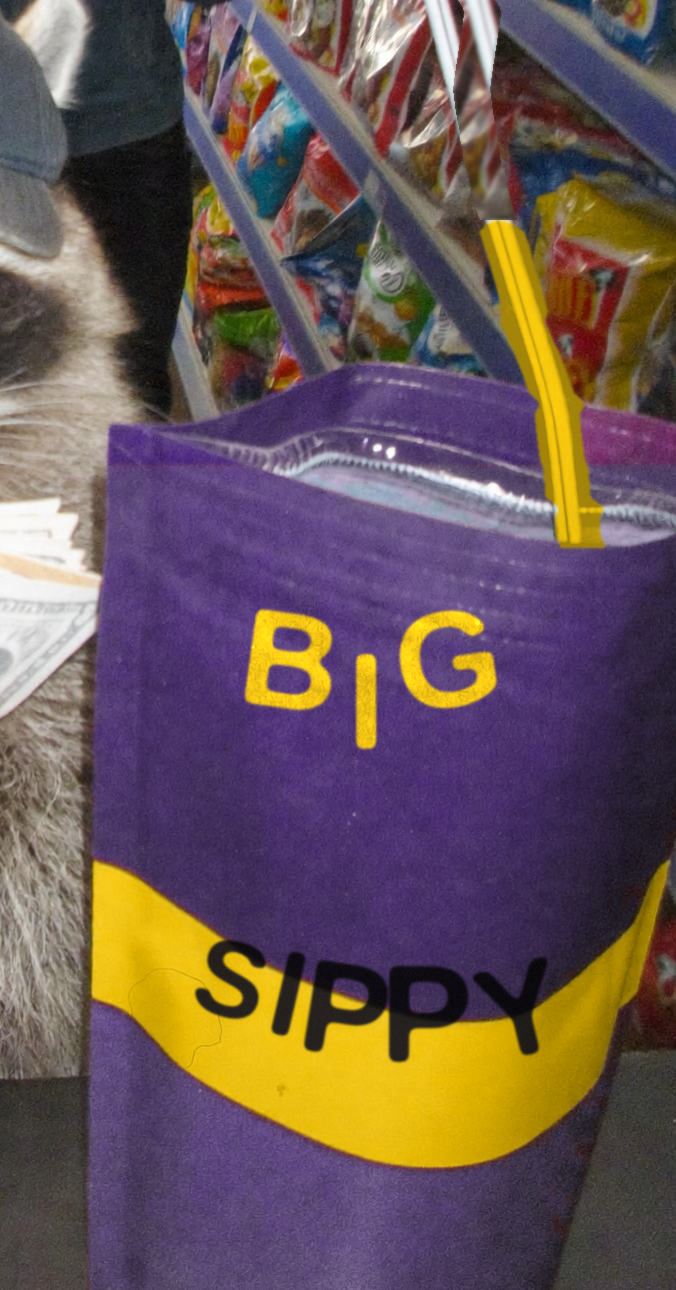
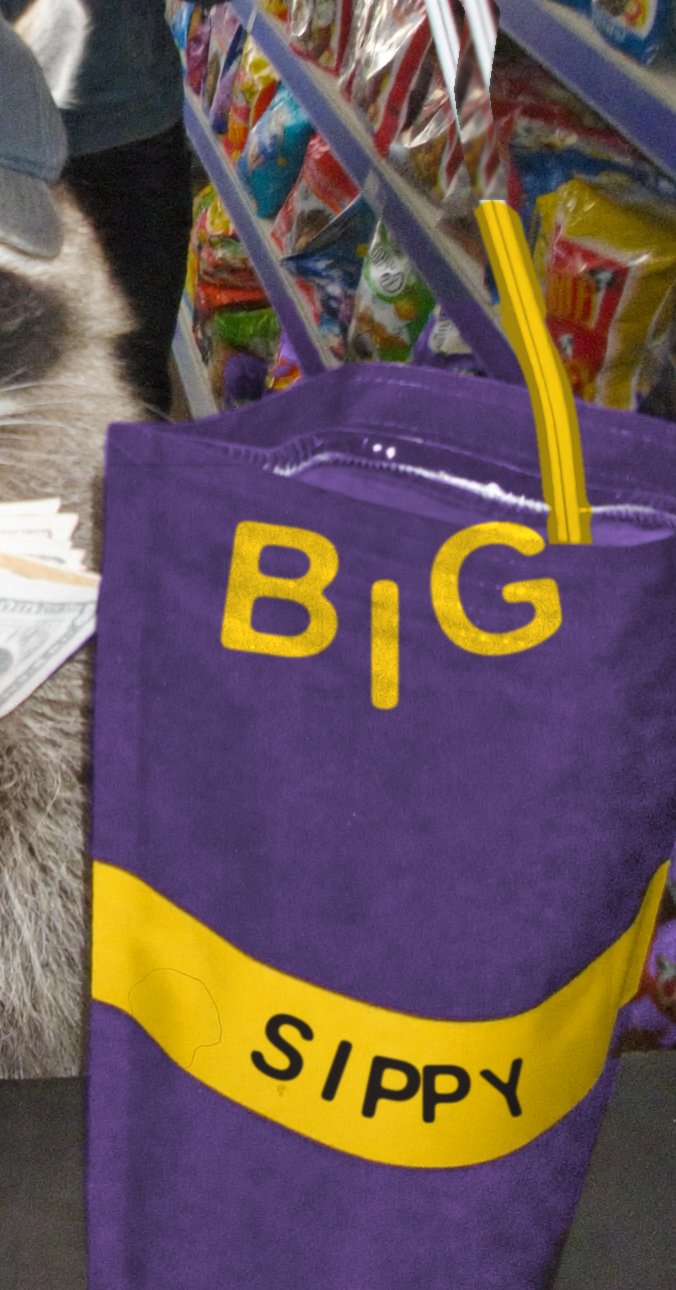
Contain SIPPY fully in the band, and make the purple genuinely one colour
Both fixes came down to replacing detection heuristics with measured geometry.

The purple: per-region value scaling failed twice because the tone varies
WITHIN a region — the fold fades to washed lavender near the straw, sitting
under every saturation floor. unify_body now rebuilds the body colour per
pixel: hue and saturation pinned to canon everywhere, value keeping only its
high-frequency wrinkle detail while the low-frequency illumination field is
divided out. Measured result: hue spread 264.5-266.2 deg, saturation
0.45-0.47 across the whole pouch. The capture mask now reaches the full
purple-through-pink arc down to barely-saturated, filtered by touching the
known pouch, since the box also contains pink shelf packets.

SIPPY: the letters now distribute evenly across the band's FRONT FACE with
equal margins from the pouch edges, each letter sized from local thickness
minus a reserved margin, riding the band's centreline curve. Three bugs stood
in the way. The face cannot be found by thickness — where the band dives
around a seam its per-column footprint gets taller, not thinner — so the face
is found by centreline slope. And the centreline itself was wrong: a row-fill
construction let the sagging band's side arms bleed their heights into the
middle columns, inflating thickness (258 vs a true 150) and floating the
letters ~70px above the band's centre, which is why ink kept printing through
the band's top edge. Columns are now built from the band's actual pixels.
[…]

diff --git a/docs/character-bible.html b/docs/character-bible.html
@@ -392,7 +392,7 @@
           <tr><td>Body</td><td>Purple — approx <code>#966ECD</code>, <strong>one purple only</strong>: no two-tone panelling, the top fold matches the body</td></tr>
           <tr><td>Mark</td><td>One bold yellow band, <code>#F8CD1E</code>, running <strong>horizontally</strong> across the middle, edge to edge, level on the pouch — sag and drape are realism, rotation is a defect</td></tr>
           <tr><td>Straw</td><td><strong>Band-yellow</strong>, thick, short — protruding only a stub above the pouch. (Revised from white: the yellow ties the straw into the scheme and keeps it visible.)</td></tr>
-          <tr><td>Wordmark</td><td>Two words, both centred on the pouch's centre column. <strong>BIG</strong> large in band-yellow on the purple body above the band, B and G high with the I dipping. <strong>SIPPY</strong> in dark ink <em>inside</em> the band, arranged as a smile — S and Y at the ends riding high, the middle P at the bottom of the curve, directly under the I of BIG. Rounded bold grotesque (Liberation Sans Bold, rounded terminals).</td></tr>
+          <tr><td>Wordmark</td><td>Two words, both centred on the pouch's centre column. <strong>BIG</strong> large in band-yellow on the purple body above the band, B and G high with the I dipping. <strong>SIPPY</strong> in dark ink <em>inside</em> the band, following the band’s curve — S and Y riding the ends, the middle P at the bottom, directly under the I of BIG. Letters distribute evenly across the band’s front face with equal margins from the pouch edges, and <b>every letter carries a guaranteed yellow margin</b>: ink never touches, borders, or crosses onto the purple. Rounded bold grotesque (Liberation Sans Bold, rounded terminals).</td></tr>
         </tbody>
       </table>
     </div>

diff --git a/docs/sippy-artwork.py b/docs/sippy-artwork.py
@@ -107,23 +107,34 @@ def lit_ink(rgb, hsv, alpha, ink, ref_lum, strength=0.94):
 
 
 def unify_body(rgb, hsv, body):
-    """One purple: renormalise each body region's value to the shared median."""
-    v = hsv[:, :, 2]
+    """ONE purple, literally: pin hue and saturation to canon across the whole
+    body and flatten the large-scale tone.
+
+    Per-region value scaling was not enough — the tone varies WITHIN a
+    connected region (the fold fades to washed lavender near the straw), so
+    region-level correction left the pouch two-toned twice. This rebuilds the
+    body colour per pixel: hue and saturation become canon everywhere, and
+    value keeps only its high-frequency detail (wrinkles, grain) while the
+    low-frequency illumination field is divided out toward the shared median.
+    """
+    v = hsv[:, :, 2].astype(np.float32)
     target = float(np.median(v[body]))
-    lab, n = ndimage.label(body)
-    out = rgb.astype(np.float32).copy()
-    for k in range(1, n + 1):
-        m = lab == k
-        if m.sum() < 300:
-            continue
-        med = float(np.median(v[m]))
-        scale = target / max(med, 0.05)
-        if abs(scale - 1) < 0.06:
-            continue
-        # scale the region toward the shared tone, feathered at its edge
-        a = ndimage.gaussian_filter(m.astype(np.float32), 3)[:, :, None]
-        out = out * (1 - a) + (out * scale) * a
-    return np.clip(out, 0, 255)
+    # low-pass illumination estimated from body pixels only, spread outward
+    vb = np.where(body, v, 0.0)
+    wb = body.astype(np.float32)
+    L = ndimage.gaussian_filter(vb, 45) / np.maximum(ndimage.gaussian_filter(wb, 45), 1e-4)
+    flat_v = np.clip(v * np.clip(target / np.maximum(L, 0.05), 0.55, 1.9), 0, 1)
+
+    h_new = np.full_like(v, locksippy.CANON_BODY_H)
+    s_new = np.full_like(v, locksippy.CANON_BODY_S)
+    rebuilt = hsv.copy()
+    rebuilt[:, :, 0] = h_new
+    rebuilt[:, :, 1] = s_new
+    rebuilt[:, :, 2] = flat_v
+    fixed = locksippy.hsv_to_rgb(rebuilt).astype(np.float32)
+
+    a = ndimage.gaussian_filter(body.astype(np.float32), 2)[:, :, None]
+    return np.clip(rgb.astype(np.float32) * (1 - a) + fixed * a, 0, 255)
 
 
 def rework_straw(rgb, hsv, body, band, yellow_med, straw_box,
@@ -261,33 +272,28 @@ def main():
 
     yellow_med = np.median(rgb[band], axis=0).astype(np.float32)
 
-    # ---- the top fold renders pinker than the lock's hue arc reaches, so it
-    # escapes every body pass and survives as a second colour. Catch it by
-    # its own hue range, but only a blob wide enough to be the fold — the
-    # shelf packets behind the pouch are pink too, and small.
+    # ---- inclusive body capture. The pouch's purple is not one detection
+    # class: the fold renders pink, the area around the straw fades to
+    # washed-out lavender that sits UNDER every saturation floor, and both
+    # survived as second colours through two "fixes". Capture the full
+    # purple-through-pink arc down to barely-saturated, then keep only the
+    # blobs that touch the pouch already found — the box also contains pink
+    # shelf packets, and touching is what separates pouch from packet.
     h_ch, s_ch, v_ch = hsv[:, :, 0], hsv[:, :, 1], hsv[:, :, 2]
-    ys_bd0, xs_bd0 = np.nonzero(band)
-    bw0 = xs_bd0.max() - xs_bd0.min()
-    ys_b0 = np.nonzero(body.any(1))[0]
-    zone_f = np.zeros_like(body)
+    wide = ((h_ch > 0.52) | (h_ch < 0.03)) & (s_ch > 0.10) & (v_ch > 0.12)
     if box is not None:
-        zone_f[box[1]:ys_b0.min() + 200, box[0]:box[2]] = True
-    else:
-        zone_f[:ys_b0.min() + 200, :] = True
-    pinkish = (h_ch > 290 / 360) & (s_ch > 0.2) & (v_ch > 0.14) & zone_f
-    lab_f, n_f = ndimage.label(pinkish)
-    fold = np.zeros_like(body)
-    for k in range(1, n_f + 1):
-        m = lab_f == k
-        xs_f = np.nonzero(m.any(0))[0]
-        if m.sum() > 2000 and xs_f.size > bw0 * 0.5:
-            fold |= m
-    if fold.any():
-        rgb = locksippy.relock(rgb.astype(np.uint8),
-                               locksippy.CANON_BODY_H, locksippy.CANON_BODY_S,
-                               fold).astype(np.float32)
-        hsv = locksippy.rgb_to_hsv(rgb.astype(np.uint8))
-        body = body | fold
+        keep_b = np.zeros_like(wide)
+        keep_b[box[1]:box[3], box[0]:box[2]] = True
+        wide &= keep_b
+    wide &= ~ndimage.binary_dilation(band, iterations=3)
+    anchor = ndimage.binary_dilation(body | band, iterations=6)
+    lab_w, n_w = ndimage.label(wide)
+    touching = np.zeros_like(body)
+    for k in range(1, n_w + 1):
+        m = lab_w == k
+        if m.sum() >= 300 and (m & anchor).any():
+            touching |= m
+    body = body | touching
 
     # ---- one purple
     rgb = unify_body(rgb, hsv, body)
@@ -306,14 +312,39 @@ def main():
     core = yk[int(len(yk) * 0.25):int(len(yk) * 0.75)]
     cx = int(np.median([(rows[y][0] + rows[y][1]) / 2 for y in core]))
 
-    # band centreline as a function of x, for anchoring SIPPY
+    # Band centreline per column, from the band's ACTUAL pixels in that
+    # column. An earlier row-fill construction (every column between a row's
+    # extents inherits that row's y) let the sagging band's side arms bleed
+    # their heights into the middle columns: thickness read 258 where the
+    # band is 150 thick, the centreline sat ~70px above the band's true
+    # centre, and letters printed through the band's top edge onto purple.
     col_c = {}
-    for y in yk:
-        x0r, x1r = rows[y]
-        for x in range(x0r, x1r + 1):
-            col_c.setdefault(x, []).append(y)
+    for x in range(w_img := band.shape[1]):
+        col = np.nonzero(band[:, x])[0]
+        if col.size >= 6:
+            col_c[x] = list(col)
     cxs = sorted(col_c)
     cline = {x: float(np.mean(col_c[x])) for x in cxs}
+
+    thick = {x: len(col_c[x]) for x in cxs}
+    th_med = float(np.median(list(thick.values())))
+    # Distribute across the FRONT FACE only — identified by centreline SLOPE.
+    # Thickness cannot find the wrap: where the band dives around a seam its
+    # per-column footprint gets TALLER, not thinner, so a thickness filter
+    # kept the wrap and the first two even distributions put the Y half off
+    # the pouch. The face is where the band runs level; the wrap is where it
+    # dives.
+    xs_arr = np.array(cxs, dtype=float)
+    cl_arr = np.array([cline[x] for x in cxs])
+    cl_sm = ndimage.gaussian_filter1d(cl_arr, 15)
+    slope_arr = np.gradient(cl_sm, xs_arr)
+    good = xs_arr[(np.abs(slope_arr) < 0.5)]
+    stretches = np.split(good, np.nonzero(np.diff(good) > 8)[0] + 1)
+    face = max(stretches, key=len)
+    run_l, run_r = int(face[0]), int(face[-1])
+    inset = (run_r - run_l) * 0.08
+    xs_letters = np.linspace(run_l + inset, run_r - inset, 5)
+    word_mid = float(xs_letters[2])          # middle P — BIG's I aligns to this
 
     # ---- BIG on the MAIN PANEL, band-yellow, shallow arc (I dips)
     # The panel is found by ROW COVERAGE, not connectivity: walking up from
@@ -339,8 +370,11 @@ def main():
     big = word_arc('BIG', big_px, big_dip, rots=[-8, 0, 8], gap_frac=0.16)
     a_big = np.zeros(rgb.shape[:2], np.float32)
     big_cy = panel_top + avail * 0.48
+    # centre BIG on the band's run midpoint — SIPPY distributes evenly over
+    # that same run, so this is what stacks the I over the middle P
+    band_mid = word_mid
     for g, dx, dy in big:
-        stamp(a_big, g, cx + dx, big_cy + dy - big_dip / 2)
+        stamp(a_big, g, band_mid + dx, big_cy + dy - big_dip / 2)
     a_big *= ndimage.binary_erosion(panel, iterations=2)  # stay on the panel
     hsv_now = locksippy.rgb_to_hsv(rgb.astype(np.uint8))
     body_lum = float(np.median(hsv_now[:, :, 2][body]))
@@ -351,8 +385,6 @@ def main():
     # top of it pushed the middle letters out the bottom of the band. The
     # letters sit ON the centreline, sized from the band's thickness, each
     # rotated to the centreline's local slope so they lean into the curve.
-    thick = {x: len(col_c[x]) for x in cxs}
-    th_med = float(np.median(list(thick.values())))
     sip_px = int(th_med * 0.46)
 
     def local_rot(x):
@@ -363,25 +395,29 @@ def main():
             return 0.0
         return -float(np.degrees(np.arctan2(yb - ya, xb - xa)))
 
-    # lay letters flat first to learn their x offsets, then re-render each
-    # with its local rotation
-    flat = word_arc('SIPPY', sip_px, 0, rots=[0] * 5, gap_frac=0.12)
-    a_sip = np.zeros(rgb.shape[:2], np.float32)
-    for ch, (g0, dx, _) in zip('SIPPY', flat):
-        x_here = int(np.clip(cx + dx, cxs[0], cxs[-1]))
-        # size each letter from the band's LOCAL thickness — the band thins
-        # toward its ends, and a uniform size clipped the Y where the band
-        # curves away
-        th_here = float(np.median([thick.get(int(np.clip(x_here + o, cxs[0], cxs[-1])), th_med)
-                                   for o in range(-40, 41, 10)]))
-        g = glyph(ch, max(24, int(th_here * 0.46)), local_rot(cx + dx))
-        y_here = cline.get(x_here, (band_top + band_bot) / 2)
-        stamp(a_sip, g, cx + dx, y_here)
+    # Letters are DISTRIBUTED EVENLY across the band's visible run — equal
+    # margins from both pouch edges, equal steps between letter centres, so
+    # the word is centred width-wise by construction. Each letter sizes from
+    # the band's LOCAL thickness minus a hard yellow margin: the ink must
+    # never touch the band's edge, so the margin is reserved before the
+    # glyph is sized, not clipped away after.
     band_solid = np.zeros_like(band)
     for x in cxs:
         ys_c = col_c[x]
         band_solid[min(ys_c):max(ys_c) + 1, x] = True
-    a_sip *= ndimage.binary_erosion(band_solid, iterations=2)  # never leave the band
+    margin = max(6, int(th_med * 0.14))
+    safe = ndimage.binary_erosion(band_solid, np.ones((margin, 1), bool))
+
+
+    a_sip = np.zeros(rgb.shape[:2], np.float32)
+    for ch, x_l in zip('SIPPY', xs_letters):
+        x_here = int(np.clip(x_l, run_l, run_r))
+        th_here = float(np.median([thick.get(int(np.clip(x_here + o, run_l, run_r)), th_med)
+                                   for o in range(-40, 41, 10)]))
+        g = glyph(ch, max(24, int((th_here - 2 * margin) * 0.80)), local_rot(x_here))
+        y_here = cline.get(x_here, (band_top + band_bot) / 2)
+        stamp(a_sip, g, x_l, y_here)
+    a_sip *= safe  # belt and braces — sizing should already keep the margin
     band_lum = float(np.median(hsv_now[:, :, 2][band]))
     rgb = lit_ink(rgb, hsv_now, a_sip, NAVY_INK, band_lum)
 
